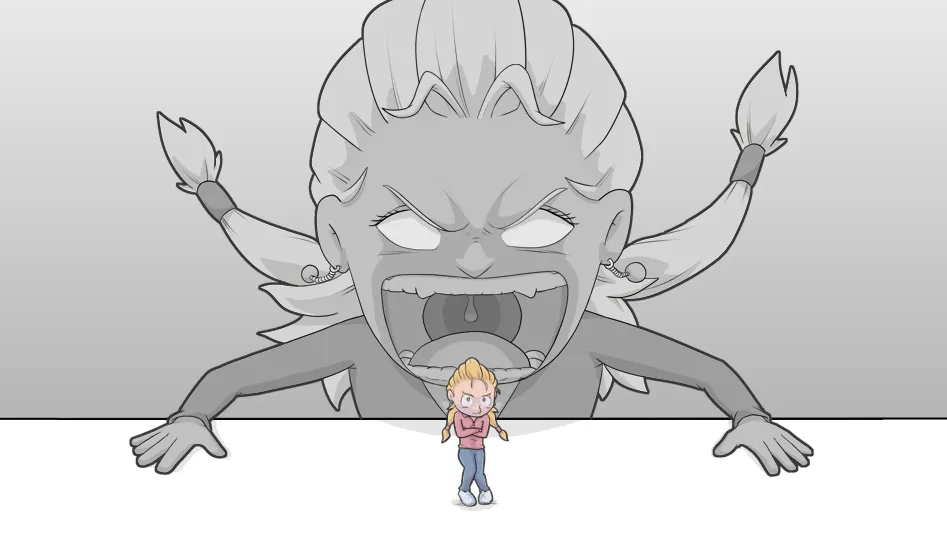
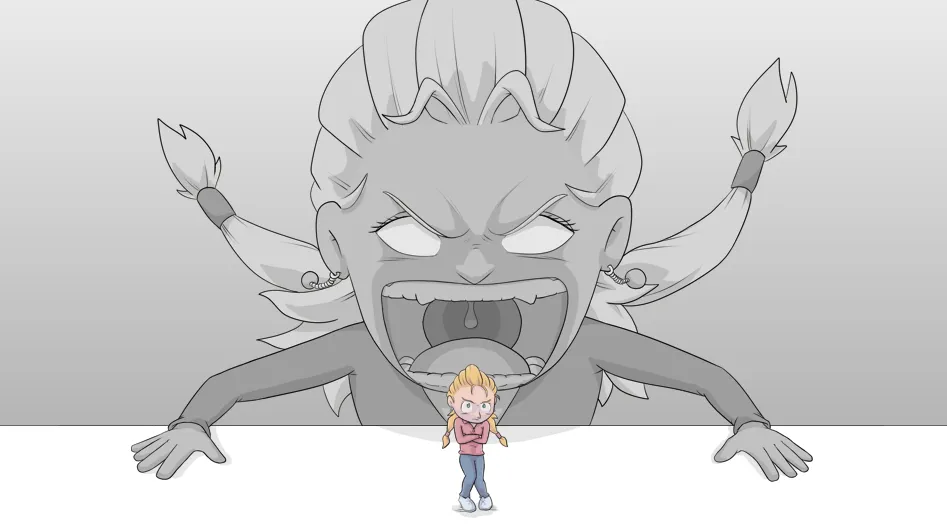
instante impacto

diff --git a/assets/scss/custom.scss b/assets/scss/custom.scss
@@ -85,7 +85,7 @@ footer.site-footer {
         width: 100%;
         height: auto;
         max-height: 350px;
-        filter: grayscale(20%) brightness(90%);
+        filter: grayscale(10%) brightness(90%);
     }
 }
 
@@ -120,7 +120,7 @@ footer.site-footer {
             img {
                 max-height: 55vh;
                 object-fit: cover;
-                filter: grayscale(20%) brightness(90%);
+                filter: grayscale(10%) brightness(90%);
             }
         }
     }
